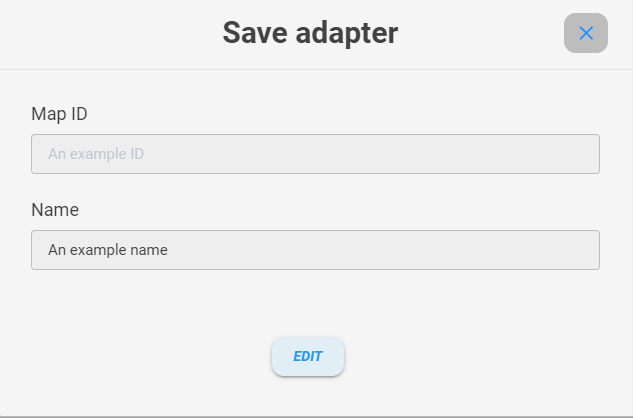
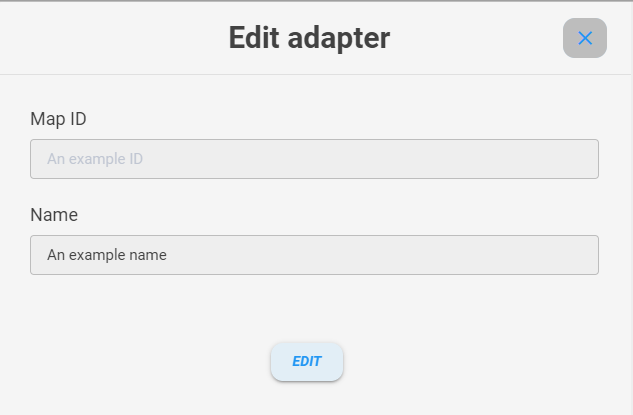
update docs and edit map label

diff --git a/frontend/src/app/pages/data-model-mapper/create-map/create-map.component.html b/frontend/src/app/pages/data-model-mapper/create-map/create-map.component.html
@@ -1,10 +1,10 @@
 <nb-card>
   <nb-card-header class="d-flex align-content-center justify-content-between">
     <div> &nbsp; &nbsp; &nbsp; &nbsp; &nbsp; </div>
-    <div *ngIf="updateAdapter">
+    <div *ngIf="!save || updateAdapter">
       <h3>{{ 'general.dmm.edit' | translate }}</h3>
     </div>
-    <div *ngIf="save || !updateAdapter">
+    <div *ngIf="save">
       <h3>{{ 'general.dmm.add' | translate }}</h3>
     </div>
     <button nbButton appearance="outline" shape="semi-round" size="tiny" status="info" (click)="cancel()">
